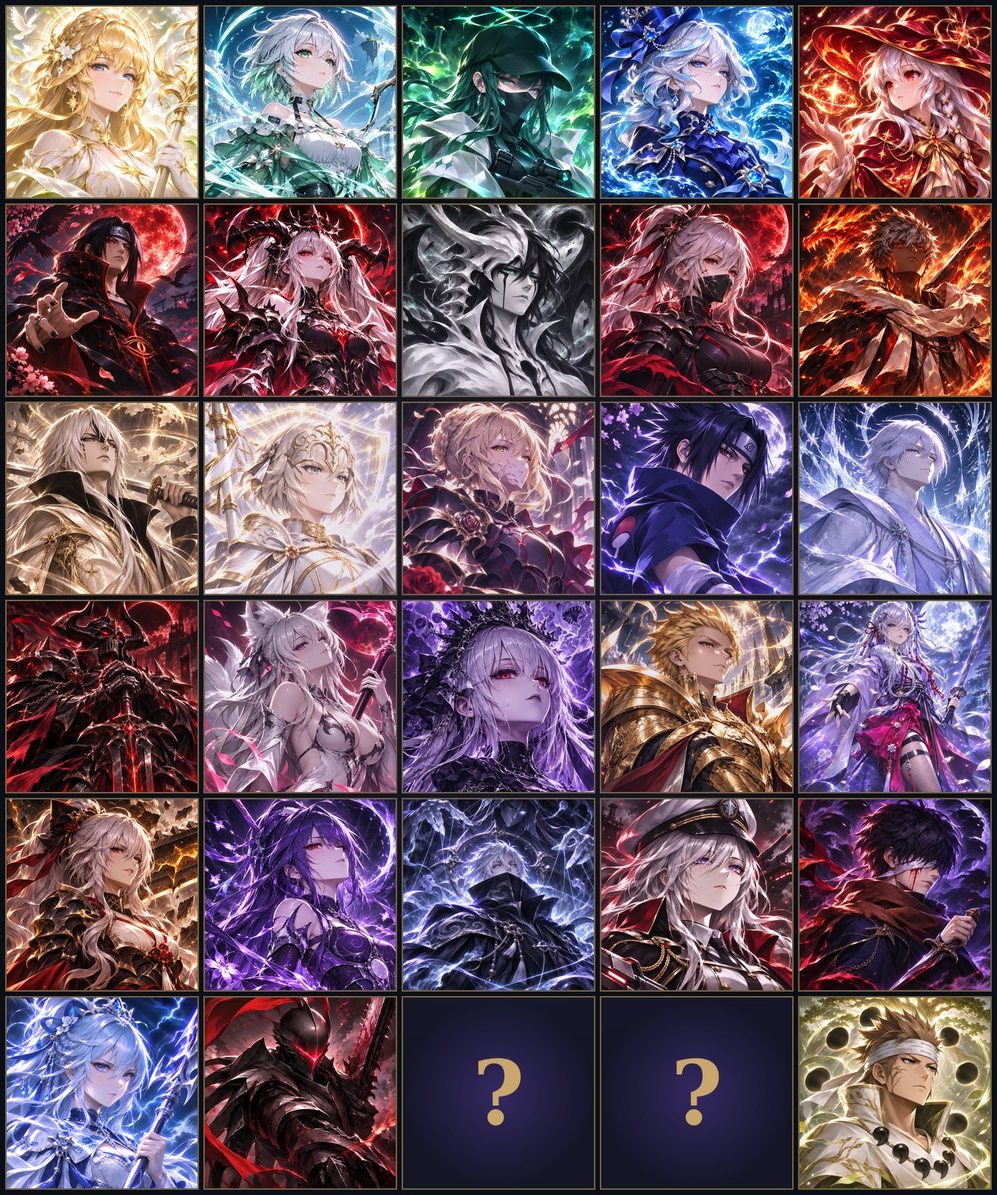
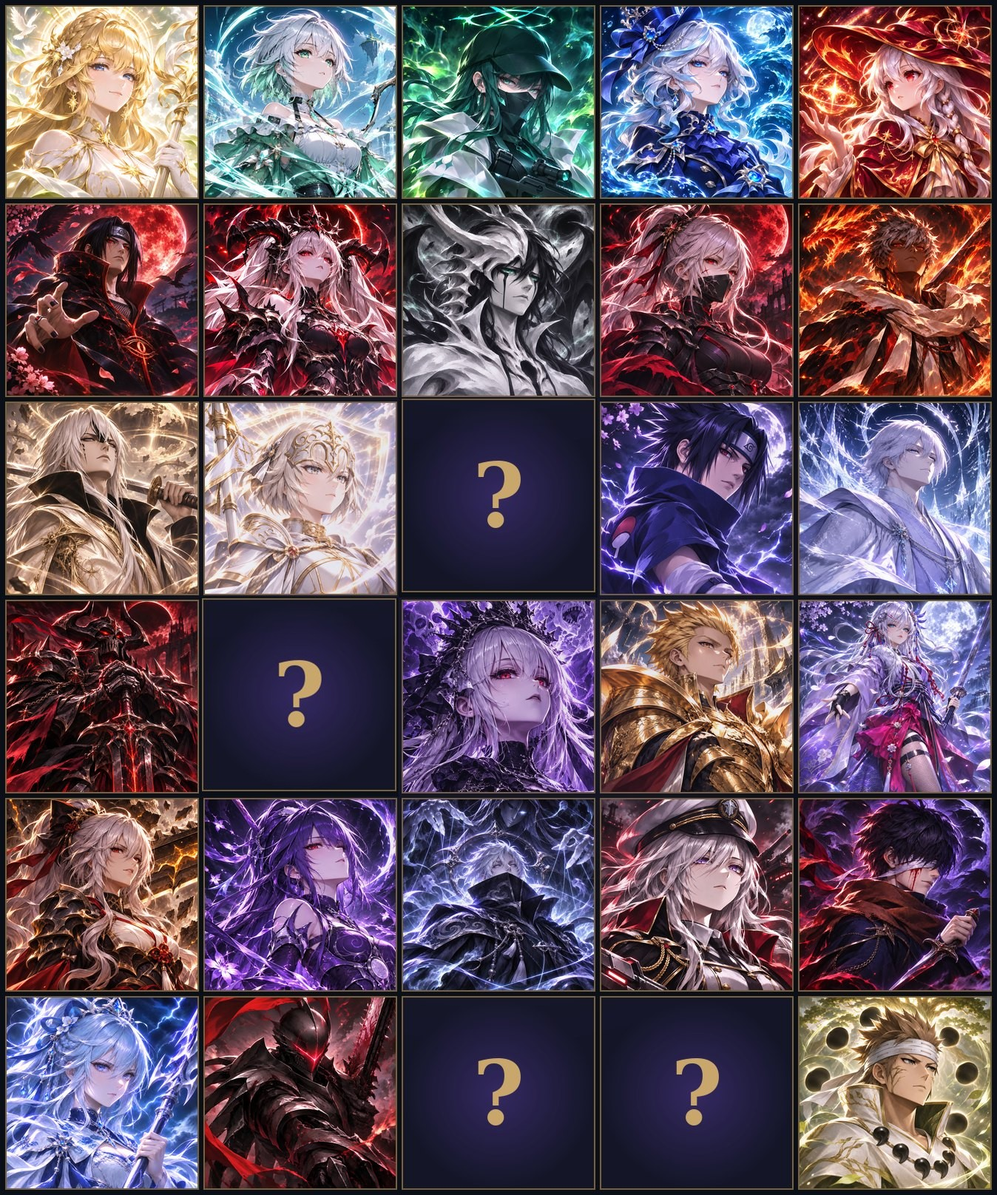
Seal Saber and Duskreaper on the live site: their roster tiles become Sealed, their entries leave the hero data, their portraits and tier art are removed, and their faces on the cast picture are covered (the site came back online with them on show)
Claude-Session: https://claude.ai/code/session_01CMHuxrduyytvaKofprdCnB

Changed region(s): [[0.1869, 0.3094, 0.6231, 0.6807]]

diff --git a/public/index.html b/public/index.html
@@ -215,7 +215,7 @@
               <p class="hd-lore" id="hd-lore"></p>
               <p class="hd-meta" id="hd-meta"></p>
             </div>
-            <script type="application/json" id="hero-data">{"White King": {"slug": "white-king", "group": "The oath-bearers", "titles": ["Bearer of Silver", "Caller of Heavenly Judgment", "Shield of the Sworn"], "lore": "When the gods swore the Covenant, a mortal king swore beside them, the only one there with nothing to gain. She swore on white stone that she would shield the sworn. A ruler was set over every realm to hold the oath; the White King was the only one of them who was not a god or a dragon, and the only one who never broke.", "sig": "Banner Command"}, "Lightning": {"slug": "lightning", "group": "The oath-bearers", "titles": ["Heir of Blue Lightning", "Caller of Blue Lightning", "Storm That Closes the Sky"], "lore": "Twice in the gods' war the sky tore open, and twice something blue struck the wound shut before anything came through. The storm has an heir now: fast enough that the Hollowbound mistook him for thunder.", "sig": "Storm Chain"}, "Duskreaper": {"slug": "duskreaper", "group": "The oath-bearers", "titles": ["Gatherer's Apprentice", "Keeper of the Unwritten Ledger", "One Who Cuts the Thread of Fate"], "lore": "The Red Reaper is the Covenant's gatherer: he walks the realms collecting the dead and writing their names into the Record. He is old, and his ledger loses names faster than he can write them. There is one name he will not write. It belongs to the one who comes after.", "sig": "Reapstep"}, "Golden Star": {"slug": "golden-star", "group": "Witnesses of the signing", "titles": ["Start of Light", "Star Bearing Light", "Light the Oath Was Signed By"], "lore": "On the last night of the war, a star came down to light the signing of the Covenant. She never went back up. She walks among the wounded now, and heals them as if she owes them something.", "sig": "Beacon"}, "Venomrose": {"slug": "venomrose", "group": "Witnesses of the signing", "titles": ["Green Perfumer", "Guide of the Poison Mist", "One Breath From Either Fate"], "lore": "She brewed the incense burned at the signing of the Covenant, and learned there that a cure and a poison are only ever one breath apart. She has never told anyone which one she burned that night.", "sig": "Contagion"}, "Galeheart": {"slug": "galeheart", "group": "Witnesses of the signing", "titles": ["Start of Wind", "Bow of the Storm", "Messenger Between the Realms"], "lore": "The wind swore to nothing, so it blows through every realm. Galeheart learned to ride it, and carried the Covenant's terms from one warring god to the next. Arrows travel the same way.", "sig": "Aeolos Tempest"}, "Moonlit Night": {"slug": "moonlit-night", "group": "Witnesses of the signing", "titles": ["One Who Hides Red Eyes", "One Who Reveals Truth", "One Who Sees What the Oath Hides"], "lore": "Their clan's eyes see through every illusion. One of them looked at the Covenant and saw the cracks no one else could. Since then, the red eyes stay hidden, and so does everything they know.", "sig": "Mirror Exchange"}, "Heavenly Path": {"slug": "heavenly-path", "group": "Witnesses of the signing", "titles": ["Wielder of Gravity", "Master of Absolute Gravity", "One Who Teaches the World Its Weight"], "lore": "He believes the Covenant was sworn too easily, by gods who never felt the war's pain. He means to teach that weight to everyone, until peace is something the world can no longer forget.", "sig": "Stellar Convergence", "role": "The controller"}, "Death Spirit": {"slug": "death-spirit", "group": "Keepers of the dead", "titles": ["Guide of Souls", "Lord of the Dead", "Master Even of Death"], "lore": "She once guided souls to the Record. Then she found the ones it would not take. Rather than let them fall outside, she kept them. Her necropolis is the only home they have left.", "sig": "Harvest"}, "Soulweaver": {"slug": "soulweaver", "group": "Keepers of the dead", "titles": ["Puppeteer of Black Threads", "Puppeteer of Dead Souls", "Architect at the Center of a Thread-Woven World"], "lore": "Some say the Record is written in thread. Soulweaver gathers the loose ends of the dead and ties them to puppets. Somewhere, someone is waiting to cut them."}, "Tidecaller": {"slug": "tidecaller", "group": "Keepers of the dead", "titles": ["Start of Water", "Blue Monk of the Great Domain", "Voice of the Turning Tide"], "lore": "The tides carry the dead out to the Record. A monk of the great waters learned the songs that bring the living back to shore. When she sings, the sea listens.", "sig": "Tide Cycle"}, "Ghost Soul": {"slug": "ghost-soul", "group": "Keepers of the dead", "titles": ["Soul-Cutting Warrior", "Devourer of the Dead", "One Who Cut Her Way Back"], "lore": "She died, and she refused it. She cut her way out of the netherworld with a violet blade, and she feeds on the dead to stay out. The Record has a line for her name. It is crossed out.", "sig": "Soul Brand"}, "Dark Ghost": {"slug": "dark-ghost", "group": "Keepers of the dead", "titles": ["Start of Darkness", "One Who Walks in Darkness", "Many Shadows, One Name"], "lore": "He tore away his own shadow so it could fight for him. Then he did it again, and again. The Record holds only one name for him. No one knows which of them it belongs to.", "sig": "Shadow Execution"}, "Demon Realm": {"slug": "demon-realm", "group": "Keepers of the dead", "titles": ["Loader of Demon Bullets", "Executor of the Final Bullet", "Executioner of Broken Oaths"], "lore": "Under the Covenant, an oath-breaker is owed a death. Someone has to deliver it. Every bullet she loads is engraved with a name, and she has never once missed.", "sig": "Six Chambers"}, "Abyss": {"slug": "abyss", "group": "Outside the oath", "titles": ["One Who Lost the Meaning of Existence", "Wing-Hidden One Without Death or Emotion", "Ender of Eternal Nothingness"], "lore": "Long before the Hollow broke in, someone climbed out of the place beneath the oath. He does not hunger like the others. He does not feel anything at all. He only asks what it means to exist.", "sig": "Release on command"}, "Annihilation": {"slug": "annihilation", "group": "Outside the oath", "titles": ["Machine Soldier", "Machine Legion Lieutenant", "Last Order of a Finished War"], "lore": "The war engines were never written into the Record, because they were never alive. When the Covenant was sworn, no one remembered to switch this one off. It is still carrying out its last order.", "sig": "Overheat"}, "Frenzy": {"slug": "frenzy", "group": "Outside the oath", "titles": ["Start of Blood", "Demon of Frenzy", "One Who Never Heard the War End"], "lore": "He was still fighting when the gods swore the Covenant. Too deep in the slaughter to hear the oath, he was never bound by the peace. Blood is the only promise he keeps.", "sig": "Blood Debt"}, "Emberclaw": {"slug": "emberclaw", "group": "Outside the oath", "titles": ["Start of Fire", "Red Dragon Warrior", "One Who Will Not Burn Out"], "lore": "The red dragons refused the Covenant and were hunted for it. One warrior drank the blood of the last of them and did not die. Every time he should have, the flame simply rose again.", "sig": "Dragonheart"}, "Aran": {"slug": "aran", "group": "Children of the war", "titles": ["Bearer of the Heavy Sword", "One Who Shakes the Shattered Earth", "Voice of the Broken Ground"], "lore": "Ground Zero is where the war ended, and the earth there never healed. Aran rose out of that broken ground with a blade as heavy as the land. The earth remembers every swing.", "sig": "Terra Reflect Wall", "role": "The mobile tank"}, "Cinderstar": {"slug": "cinderstar", "group": "Children of the war", "titles": ["Revelation of Crimson Flame", "Blazing Crimson Star", "Caller of the Fallen Stars"], "lore": "In the war, the gods threw stars at one another. The craters still burn. Cinderstar reads those wounds like scripture and calls the fallen stars back down.", "sig": "Kindling"}, "Crimson Night": {"slug": "crimson-night", "group": "Children of the war", "titles": ["Crimson Red Moon", "Moon Spirit of the Red Moon", "Last Blood of the Longest Night"], "lore": "The night the war ended was the longest the world has known, and the moon drank everything spilled under it. Crimson Night is what that moon gave back.", "sig": "Blood Moon Combo"}, "Azure Lancer": {"slug": "azure-lancer", "group": "Children of the war", "titles": ["Magic Lancer Cloaked in Blue Lightning", "Blue Magic Lancer Unleashed", "Master of Blue Thunderclouds"], "lore": "The Upper Realm's storms once had riders. All of them fell in the war but one, who still rides the blue thunderclouds with a spear that strikes before its sound arrives.", "sig": "Static Charge"}, "Fallen Emperor": {"slug": "fallen-emperor", "group": "Children of the war", "titles": ["God-Forsaken Martial Ghost", "Devourer of the Empire", "War God Who Raises an Empire"], "lore": "He wagered his empire against a god, and lost. The gods forsook him, but they forgot to take his sword. He has been winning it all back one battlefield at a time.", "sig": "Imperial Decree"}, "Golden Emperor": {"slug": "golden-emperor", "group": "Children of the war", "titles": ["Fading Golden Light", "Absolute Golden Authority", "King of All Spoils"], "lore": "When the gods' war ended, he claimed every weapon left on the field. His treasury holds the arms of gods who no longer exist. He has never once had to draw the same blade twice.", "sig": "Treasury Ledger"}, "Nature": {"slug": "nature", "group": "Keepers of the world", "titles": ["Lifeline of Wood Binding", "One with Nature", "Root of the World Tree"], "lore": "The World Tree grew in the crater where the first god died. Nature is the oath it took to protect what still lives. Strike it, and the forest strikes back.", "sig": "Rootwall"}, "Frostveil": {"slug": "frostveil", "group": "Keepers of the world", "titles": ["Start of Frost", "Wielder of Frost", "Keeper of the Last Page"], "lore": "His order froze what the gods' war could not be allowed to burn. Each page of the Frost Scripture stills more of the world. No one has ever read the last page aloud.", "sig": "Shatter"}, "Sword Saint": {"slug": "sword-saint", "group": "Keepers of the world", "titles": ["One Who Rose at the Blade's End", "One Who Cuts an Instant at the Blade's End", "One Who Cuts Between Worlds"], "lore": "She has crossed three thousand worlds looking for an opponent worth one perfect cut. Each world was a lesson. At the end of the blade there is only one instant left to learn.", "sig": "Iaido"}, "Saber": {"slug": "saber", "group": "The oath-bearers", "titles": ["Bearer of the Stone-Drawn Blade", "Knight of the Kept Oath", "Oath King"], "lore": "The gods forged one blade when they swore, and set it in stone, to be drawn only by a hand that would keep the oath. For an age no one could draw it. When the rulers began to fall, it came free for a mortal who had never sworn anything at all.", "name": "Oath King"}}</script>
+            <script type="application/json" id="hero-data">{"White King": {"slug": "white-king", "group": "The oath-bearers", "titles": ["Bearer of Silver", "Caller of Heavenly Judgment", "Shield of the Sworn"], "lore": "When the gods swore the Covenant, a mortal king swore beside them, the only one there with nothing to gain. She swore on white stone that she would shield the sworn. A ruler was set over every realm to hold the oath; the White King was the only one of them who was not a god or a dragon, and the only one who never broke.", "sig": "Banner Command"}, "Lightning": {"slug": "lightning", "group": "The oath-bearers", "titles": ["Heir of Blue Lightning", "Caller of Blue Lightning", "Storm That Closes the Sky"], "lore": "Twice in the gods' war the sky tore open, and twice something blue struck the wound shut before anything came through. The storm has an heir now: fast enough that the Hollowbound mistook him for thunder.", "sig": "Storm Chain"}, "Golden Star": {"slug": "golden-star", "group": "Witnesses of the signing", "titles": ["Start of Light", "Star Bearing Light", "Light the Oath Was Signed By"], "lore": "On the last night of the war, a star came down to light the signing of the Covenant. She never went back up. She walks among the wounded now, and heals them as if she owes them something.", "sig": "Beacon"}, "Venomrose": {"slug": "venomrose", "group": "Witnesses of the signing", "titles": ["Green Perfumer", "Guide of the Poison Mist", "One Breath From Either Fate"], "lore": "She brewed the incense burned at the signing of the Covenant, and learned there that a cure and a poison are only ever one breath apart. She has never told anyone which one she burned that night.", "sig": "Contagion"}, "Galeheart": {"slug": "galeheart", "group": "Witnesses of the signing", "titles": ["Start of Wind", "Bow of the Storm", "Messenger Between the Realms"], "lore": "The wind swore to nothing, so it blows through every realm. Galeheart learned to ride it, and carried the Covenant's terms from one warring god to the next. Arrows travel the same way.", "sig": "Aeolos Tempest"}, "Moonlit Night": {"slug": "moonlit-night", "group": "Witnesses of the signing", "titles": ["One Who Hides Red Eyes", "One Who Reveals Truth", "One Who Sees What the Oath Hides"], "lore": "Their clan's eyes see through every illusion. One of them looked at the Covenant and saw the cracks no one else could. Since then, the red eyes stay hidden, and so does everything they know.", "sig": "Mirror Exchange"}, "Heavenly Path": {"slug": "heavenly-path", "group": "Witnesses of the signing", "titles": ["Wielder of Gravity", "Master of Absolute Gravity", "One Who Teaches the World Its Weight"], "lore": "He believes the Covenant was sworn too easily, by gods who never felt the war's pain. He means to teach that weight to everyone, until peace is something the world can no longer forget.", "sig": "Stellar Convergence", "role": "The controller"}, "Death Spirit": {"slug": "death-spirit", "group": "Keepers of the dead", "titles": ["Guide of Souls", "Lord of the Dead", "Master Even of Death"], "lore": "She once guided souls to the Record. Then she found the ones it would not take. Rather than let them fall outside, she kept them. Her necropolis is the only home they have left.", "sig": "Harvest"}, "Soulweaver": {"slug": "soulweaver", "group": "Keepers of the dead", "titles": ["Puppeteer of Black Threads", "Puppeteer of Dead Souls", "Architect at the Center of a Thread-Woven World"], "lore": "Some say the Record is written in thread. Soulweaver gathers the loose ends of the dead and ties them to puppets. Somewhere, someone is waiting to cut them."}, "Tidecaller": {"slug": "tidecaller", "group": "Keepers of the dead", "titles": ["Start of Water", "Blue Monk of the Great Domain", "Voice of the Turning Tide"], "lore": "The tides carry the dead out to the Record. A monk of the great waters learned the songs that bring the living back to shore. When she sings, the sea listens.", "sig": "Tide Cycle"}, "Ghost Soul": {"slug": "ghost-soul", "group": "Keepers of the dead", "titles": ["Soul-Cutting Warrior", "Devourer of the Dead", "One Who Cut Her Way Back"], "lore": "She died, and she refused it. She cut her way out of the netherworld with a violet blade, and she feeds on the dead to stay out. The Record has a line for her name. It is crossed out.", "sig": "Soul Brand"}, "Dark Ghost": {"slug": "dark-ghost", "group": "Keepers of the dead", "titles": ["Start of Darkness", "One Who Walks in Darkness", "Many Shadows, One Name"], "lore": "He tore away his own shadow so it could fight for him. Then he did it again, and again. The Record holds only one name for him. No one knows which of them it belongs to.", "sig": "Shadow Execution"}, "Demon Realm": {"slug": "demon-realm", "group": "Keepers of the dead", "titles": ["Loader of Demon Bullets", "Executor of the Final Bullet", "Executioner of Broken Oaths"], "lore": "Under the Covenant, an oath-breaker is owed a death. Someone has to deliver it. Every bullet she loads is engraved with a name, and she has never once missed.", "sig": "Six Chambers"}, "Abyss": {"slug": "abyss", "group": "Outside the oath", "titles": ["One Who Lost the Meaning of Existence", "Wing-Hidden One Without Death or Emotion", "Ender of Eternal Nothingness"], "lore": "Long before the Hollow broke in, someone climbed out of the place beneath the oath. He does not hunger like the others. He does not feel anything at all. He only asks what it means to exist.", "sig": "Release on command"}, "Annihilation": {"slug": "annihilation", "group": "Outside the oath", "titles": ["Machine Soldier", "Machine Legion Lieutenant", "Last Order of a Finished War"], "lore": "The war engines were never written into the Record, because they were never alive. When the Covenant was sworn, no one remembered to switch this one off. It is still carrying out its last order.", "sig": "Overheat"}, "Frenzy": {"slug": "frenzy", "group": "Outside the oath", "titles": ["Start of Blood", "Demon of Frenzy", "One Who Never Heard the War End"], "lore": "He was still fighting when the gods swore the Covenant. Too deep in the slaughter to hear the oath, he was never bound by the peace. Blood is the only promise he keeps.", "sig": "Blood Debt"}, "Emberclaw": {"slug": "emberclaw", "group": "Outside the oath", "titles": ["Start of Fire", "Red Dragon Warrior", "One Who Will Not Burn Out"], "lore": "The red dragons refused the Covenant and were hunted for it. One warrior drank the blood of the last of them and did not die. Every time he should have, the flame simply rose again.", "sig": "Dragonheart"}, "Aran": {"slug": "aran", "group": "Children of the war", "titles": ["Bearer of the Heavy Sword", "One Who Shakes the Shattered Earth", "Voice of the Broken Ground"], "lore": "Ground Zero is where the war ended, and the earth there never healed. Aran rose out of that broken ground with a blade as heavy as the land. The earth remembers every swing.", "sig": "Terra Reflect Wall", "role": "The mobile tank"}, "Cinderstar": {"slug": "cinderstar", "group": "Children of the war", "titles": ["Revelation of Crimson Flame", "Blazing Crimson Star", "Caller of the Fallen Stars"], "lore": "In the war, the gods threw stars at one another. The craters still burn. Cinderstar reads those wounds like scripture and calls the fallen stars back down.", "sig": "Kindling"}, "Crimson Night": {"slug": "crimson-night", "group": "Children of the war", "titles": ["Crimson Red Moon", "Moon Spirit of the Red Moon", "Last Blood of the Longest Night"], "lore": "The night the war ended was the longest the world has known, and the moon drank everything spilled under it. Crimson Night is what that moon gave back.", "sig": "Blood Moon Combo"}, "Azure Lancer": {"slug": "azure-lancer", "group": "Children of the war", "titles": ["Magic Lancer Cloaked in Blue Lightning", "Blue Magic Lancer Unleashed", "Master of Blue Thunderclouds"], "lore": "The Upper Realm's storms once had riders. All of them fell in the war but one, who still rides the blue thunderclouds with a spear that strikes before its sound arrives.", "sig": "Static Charge"}, "Fallen Emperor": {"slug": "fallen-emperor", "group": "Children of the war", "titles": ["God-Forsaken Martial Ghost", "Devourer of the Empire", "War God Who Raises an Empire"], "lore": "He wagered his empire against a god, and lost. The gods forsook him, but they forgot to take his sword. He has been winning it all back one battlefield at a time.", "sig": "Imperial Decree"}, "Golden Emperor": {"slug": "golden-emperor", "group": "Children of the war", "titles": ["Fading Golden Light", "Absolute Golden Authority", "King of All Spoils"], "lore": "When the gods' war ended, he claimed every weapon left on the field. His treasury holds the arms of gods who no longer exist. He has never once had to draw the same blade twice.", "sig": "Treasury Ledger"}, "Nature": {"slug": "nature", "group": "Keepers of the world", "titles": ["Lifeline of Wood Binding", "One with Nature", "Root of the World Tree"], "lore": "The World Tree grew in the crater where the first god died. Nature is the oath it took to protect what still lives. Strike it, and the forest strikes back.", "sig": "Rootwall"}, "Frostveil": {"slug": "frostveil", "group": "Keepers of the world", "titles": ["Start of Frost", "Wielder of Frost", "Keeper of the Last Page"], "lore": "His order froze what the gods' war could not be allowed to burn. Each page of the Frost Scripture stills more of the world. No one has ever read the last page aloud.", "sig": "Shatter"}, "Sword Saint": {"slug": "sword-saint", "group": "Keepers of the world", "titles": ["One Who Rose at the Blade's End", "One Who Cuts an Instant at the Blade's End", "One Who Cuts Between Worlds"], "lore": "She has crossed three thousand worlds looking for an opponent worth one perfect cut. Each world was a lesson. At the end of the blade there is only one instant left to learn.", "sig": "Iaido"}}</script>
             <div class="roster" role="list">
             <button class="hero-tile" type="button" data-name="Golden Star"><img src="/assets/heroes/golden-star.jpg" alt="Golden Star" loading="lazy" width="240" height="240"><span>Golden Star</span></button>
             <button class="hero-tile" type="button" data-name="Venomrose"><img src="/assets/heroes/venomrose.jpg" alt="Venomrose" loading="lazy" width="240" height="240"><span>Venomrose</span></button>
@@ -243,8 +243,8 @@
             <button class="hero-tile" type="button" data-name="Sword Saint"><img src="/assets/heroes/sword-saint.jpg" alt="Sword Saint" loading="lazy" width="240" height="240"><span>Sword Saint</span></button>
             <button class="hero-tile" type="button" data-name="White King"><img src="/assets/heroes/white-king.jpg" alt="White King" loading="lazy" width="240" height="240"><span>White King</span></button>
             <button class="hero-tile" type="button" data-name="Lightning"><img src="/assets/heroes/lightning.jpg" alt="Lightning" loading="lazy" width="240" height="240"><span>Lightning</span></button>
-            <button class="hero-tile" type="button" data-name="Saber"><img src="/assets/heroes/saber.jpg" alt="Saber" loading="lazy" width="240" height="240"><span>Saber</span></button>
-            <button class="hero-tile" type="button" data-name="Duskreaper"><img src="/assets/heroes/duskreaper.jpg" alt="Duskreaper" loading="lazy" width="240" height="240"><span>Duskreaper</span></button>
+            <button class="hero-tile unknown" type="button" data-name="Sealed"><span class="q">?</span><span>Sealed</span></button>
+            <button class="hero-tile unknown" type="button" data-name="Sealed"><span class="q">?</span><span>Sealed</span></button>
             <button class="hero-tile unknown" type="button" data-name="Hero 29 — yet to be revealed"><span class="q">?</span><span>Yet to be revealed</span></button>
             <button class="hero-tile unknown" type="button" data-name="Hero 30 — yet to be revealed"><span class="q">?</span><span>Yet to be revealed</span></button>
             </div>
